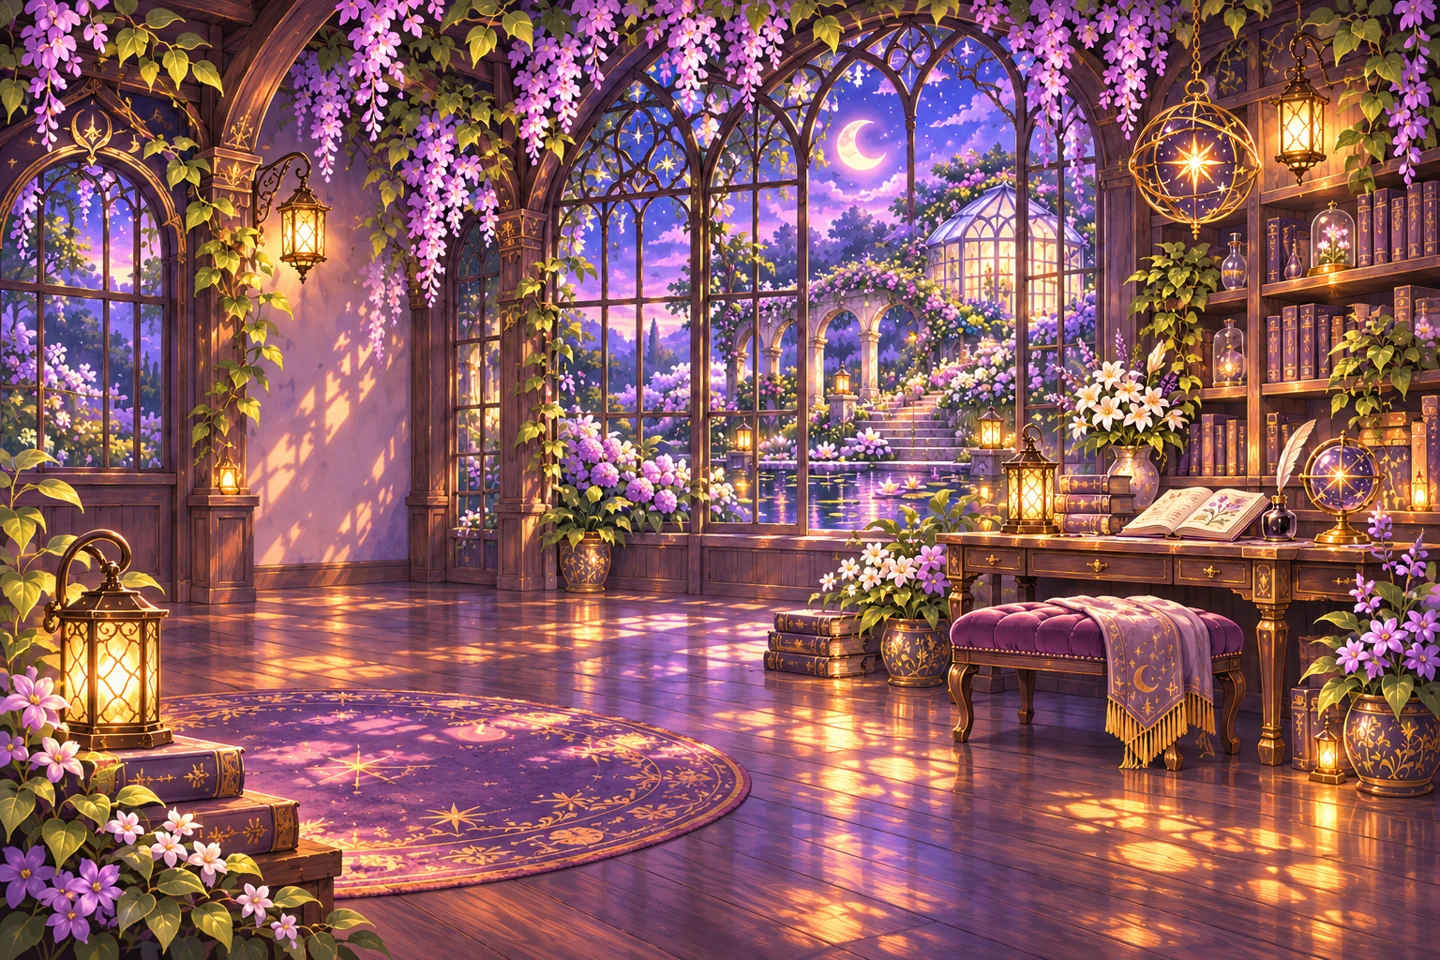
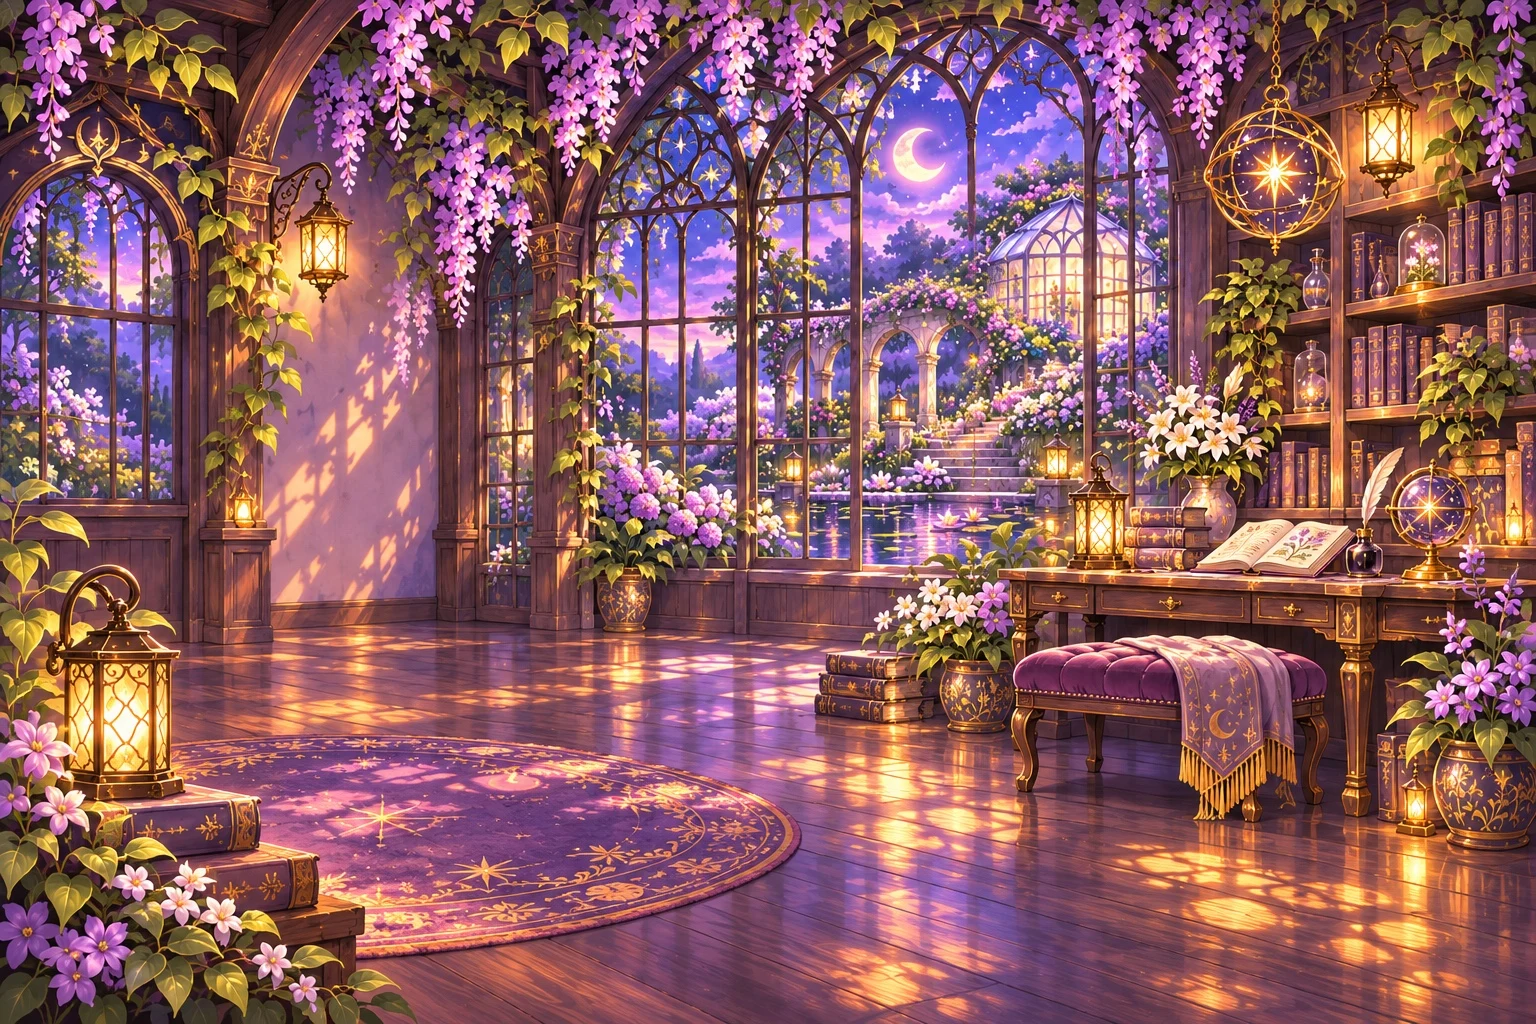
Refine Twilight Sanctuary with supplied artwork

diff --git a/prototype/theme.css b/prototype/theme.css
@@ -126,3 +126,85 @@ fieldset{border:1px solid var(--line);border-radius:8px;margin:0 0 10px}
  .scene-art{object-position:58% top}
  .dialogue{width:100%;margin-top:192px}
 }
+
+/* Shared sanctuary ornament and material treatment. */
+:root { --gilt:#8c603e; --gilt-light:#e8c48c; --paper-light:#fff3e0; --wood:#5e392e; }
+.masthead {
+  background:var(--plum);
+  border-bottom:3px double var(--gold);
+  box-shadow:0 4px 15px #24162870;
+}
+.brand { text-shadow:0 2px 3px #160f1e; }
+#header-progress { display:flex; align-items:center; gap:8px; font: .83rem var(--serif); margin-inline:auto; }
+#header-progress progress { width:clamp(48px,8vw,140px); }
+#header-progress strong { border:1px solid #aa8058; border-radius:100px; padding:6px 9px; color:var(--gold); white-space:nowrap; }
+.sidebar { border-inline-end:3px double var(--gold); }
+.sidebar a[aria-current=page] { box-shadow:inset 0 0 0 2px #ffdea2, inset 0 0 0 3px #9f703c; background:#e9c38a; }
+.sidebar a:hover:not([aria-current=page]) { background:var(--violet); }
+.avatar span { border:1px solid var(--gold); border-radius:50%; padding:4px 8px; }
+body[data-page="daily"] .shell {
+  background:linear-gradient(#30213b22,#30213b45),url('./assets/sanctuary.webp') center top/cover no-repeat,var(--plum);
+}
+body[data-page="daily"] .sidebar {
+  background:linear-gradient(180deg,#2e223de8 65%,#2e223d70),url('./assets/sanctuary.webp') left bottom/auto 100% no-repeat,var(--plum);
+}
+body[data-page="daily"] main { padding:clamp(12px,1.5vw,24px); }
+.daily-head>div { padding:4px 12px; background:#2e223deb; border:1px solid #b99166; border-radius:6px; }
+.daily-head h1 { font-size:clamp(1.6rem,3vw,2.5rem); }
+.daily-head>p { background:#2e223deb; border-radius:6px; padding:5px 9px; }
+.daily-head>div>.quiet { display:none; }
+.paper,.dialogue {
+  position:relative; border:4px double var(--gilt); border-radius:12px 5px 12px 5px;
+  background-color:var(--paper-light); box-shadow:0 4px 10px #39271664,inset 0 0 18px #c18c4938;
+}
+.paper::after,.dialogue::after {
+  content:""; position:absolute; inset:4px; pointer-events:none;
+  background:
+    radial-gradient(ellipse at 74% 36%,#78864c80 0 20%,transparent 23%) top right/28px 17px no-repeat,
+    radial-gradient(ellipse at 35% 34%,#ab875475 0 21%,transparent 24%) top right/21px 27px no-repeat,
+    radial-gradient(ellipse at 25% 67%,#78864c80 0 20%,transparent 23%) bottom left/28px 17px no-repeat,
+    radial-gradient(ellipse at 63% 72%,#ab875475 0 21%,transparent 24%) bottom left/18px 25px no-repeat;
+}
+.paper h2 { border-bottom:1px solid var(--line); padding:0 12px 8px 0; }
+.paper h2::before { content:'✧'; color:#8a633d; margin-right:7px; }
+.sanctuary { background-color:transparent; border:0; box-shadow:none; min-height:490px; }
+.scene-art { opacity:.12; }
+.sanctuary::before { background:linear-gradient(0deg,#2d1a25b0,transparent 50%); }
+.scene-heading { display:none; }
+.sol-sprite { left:-4%; bottom:0; width:68%; height:100%; }
+.dialogue { width:51%; padding:12px; margin-top:auto; border-radius:46px 32px 25px 32px; }
+.speaker { align-items:start; flex-direction:column; gap:0; }
+.speaker h2 { font-size:2.5rem; text-shadow:0 1px #fff4db; }
+.button,button { border-radius:100px; box-shadow:inset 0 0 0 2px #fff8e275; }
+.filled { background:#734838; border-color:#a2754b; box-shadow:inset 0 0 0 2px #e6bc7780; }
+.choices button::before { content:'✧'; margin-right:7px; color:#85582f; }
+progress { accent-color:#8a5734; }
+progress::-webkit-progress-bar { background:#d6ba9b; border-radius:12px; }
+progress::-webkit-progress-value { background:#ae7337; border-radius:12px; }
+.gauge-strip { display:grid; grid-template-columns:repeat(2,minmax(0,1fr)); gap:4px 10px; margin:5px 0 9px; }
+.gauge-strip div { display:flex; justify-content:space-between; gap:4px; border-bottom:1px solid #dbc1a1; font-size:.78rem; }
+.gauge-strip dd { margin:0; font-weight:bold; }
+.gauge-fields { display:grid; grid-template-columns:repeat(auto-fit,minmax(105px,1fr)); gap:8px; }
+.gauge-fields input { display:block; width:100%; min-height:44px; padding:5px; border:1px solid var(--line); background:#fff8ea; color:var(--ink); }
+.gateway { background:linear-gradient(90deg,#fff3e0 23%,#fff3e0b5 49%,transparent 77%),url('./assets/sanctuary.webp') center 50%/cover,var(--paper); }
+@media(max-width:1260px) and (min-width:851px) { .dialogue { width:55%; } .sol-sprite { width:67%; } }
+@media(max-width:850px) {
+  .sidebar { border-inline-end:0; border-bottom:3px double var(--gold); }
+  .masthead { flex-wrap:wrap; }
+  #header-progress { order:4; margin:0; }
+}
+@media(max-width:620px) {
+  #header-progress { width:100%; padding:2px 0; flex-wrap:wrap; }
+  .preview-label { order:5; }
+  .sanctuary { min-height:0; }
+  .scene-art { opacity:.77; object-position:center top; }
+  .sol-sprite { inset:10px auto auto 0; width:82%; height:244px; }
+  .dialogue { width:100%; margin-top:222px; border-radius:24px 12px; }
+  .speaker h2 { font-size:2rem; }
+  .gateway { background:linear-gradient(90deg,#fff3e0 45%,#fff3e0aa 90%),url('./assets/sanctuary.webp') center/cover,var(--paper); }
+}
+.paper h2::before,.choices button::before { content:'✧' / ''; }
+@media(min-width:851px) {
+  .scene-art { opacity:.86; }
+  .sol-sprite { left:-16%; width:83%; }
+}

diff --git a/prototype/index.html b/prototype/index.html
@@ -12,6 +12,7 @@
 <a class="skip" href="#content">Skip to content</a>
 <header class="masthead">
   <a class="brand" href="#/daily"><span aria-hidden="true">☾</span> Digital Garden</a>
+  <div id="header-progress" aria-label="Sample progression"></div>
   <span class="preview-label">Prototype · sample data</span>
   <a class="header-settings" href="#/settings">Settings</a>
   <a class="avatar" href="#/player"><span aria-hidden="true">✦</span> Player Avatar</a>

diff --git a/prototype/tests/browser_test.py b/prototype/tests/browser_test.py
@@ -59,10 +59,10 @@ def run(browser, url, shots):
     expect(desktop.get_by_role("heading", name="November 2026")).to_be_visible()
 
     desktop.locator('a[href="#/check-in"]').first.click()
-    desktop.get_by_role("radio", name="Calm").check()
+    desktop.get_by_label("Mood", exact=True).fill("6")
     desktop.get_by_role("button", name="Save sample check-in").click()
     desktop.locator('a[href="#/daily"]').first.click()
-    expect(desktop.get_by_text("Sample check-in: Calm")).to_be_visible()
+    expect(desktop.locator(".gauge-strip")).to_contain_text("Mood6")
     expect(desktop.get_by_label("Custom reply")).to_have_value("Hello, Sol.")
     assert not errors, errors
 

diff --git a/prototype/README.md b/prototype/README.md
@@ -4,7 +4,7 @@ This is an isolated static prototype for Digital Garden Task 002. It has no prod
 
 From the repository root, serve the prototype with `python -m http.server 4173 --bind 127.0.0.1 --directory prototype` and open http://127.0.0.1:4173/. Use a static HTTP preview so the browser can load the ES modules. Run deterministic checks with `node --test prototype/tests/*.test.mjs`. For a Chromium acceptance run, install Python Playwright with a Chromium browser, then run `python prototype/tests/browser_test.py --screenshots /path/to/output`.
 
-The shell uses the approved color tokens and separately generated sanctuary and Sol artwork for this prototype. The Sol illustration is a visual interpretation of the approved Twilight Sanctuary reference and written humanoid visual guide. It does not establish additional canon.
+The shell uses the approved color tokens and separately generated sanctuary and Sol artwork for this prototype. The supplied Task 002B sanctuary artwork and Sol sprite are independent WebP layers. The sprite uses the matching source alpha matte to preserve its rim lighting and contours. It does not establish additional canon.
 
 Daily Journal dates, quest progress, XP and Gald are synthetic. The single currency display uses Gald. The check-in and reply draft stay in tab memory and reset on reload. Sol's three choices are scripted. All integration routes show their unavailable states. Companion Vault excludes editing and authenticated connections in this milestone.
 
